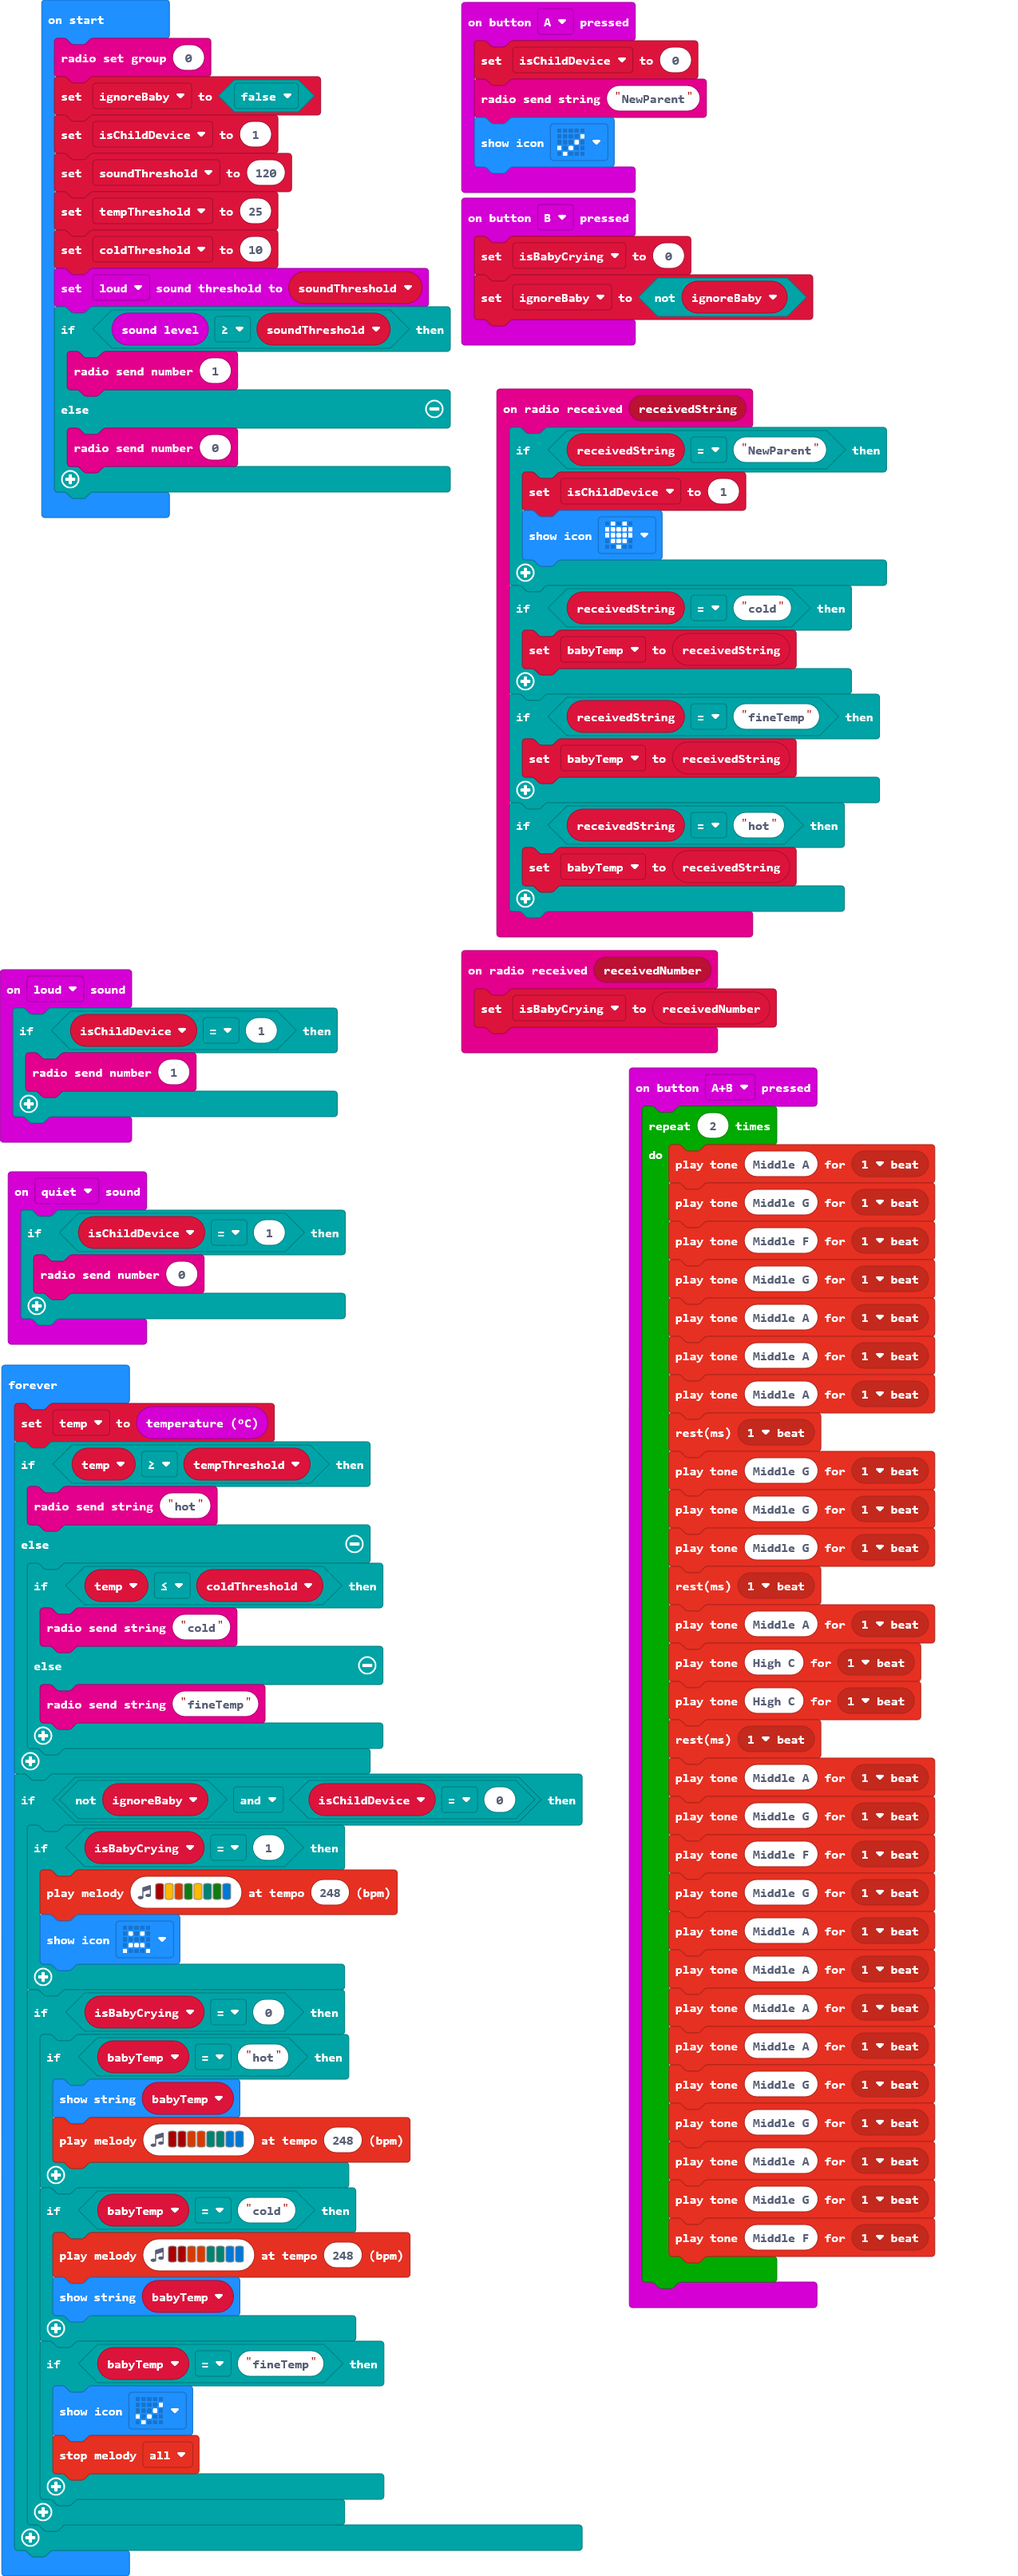
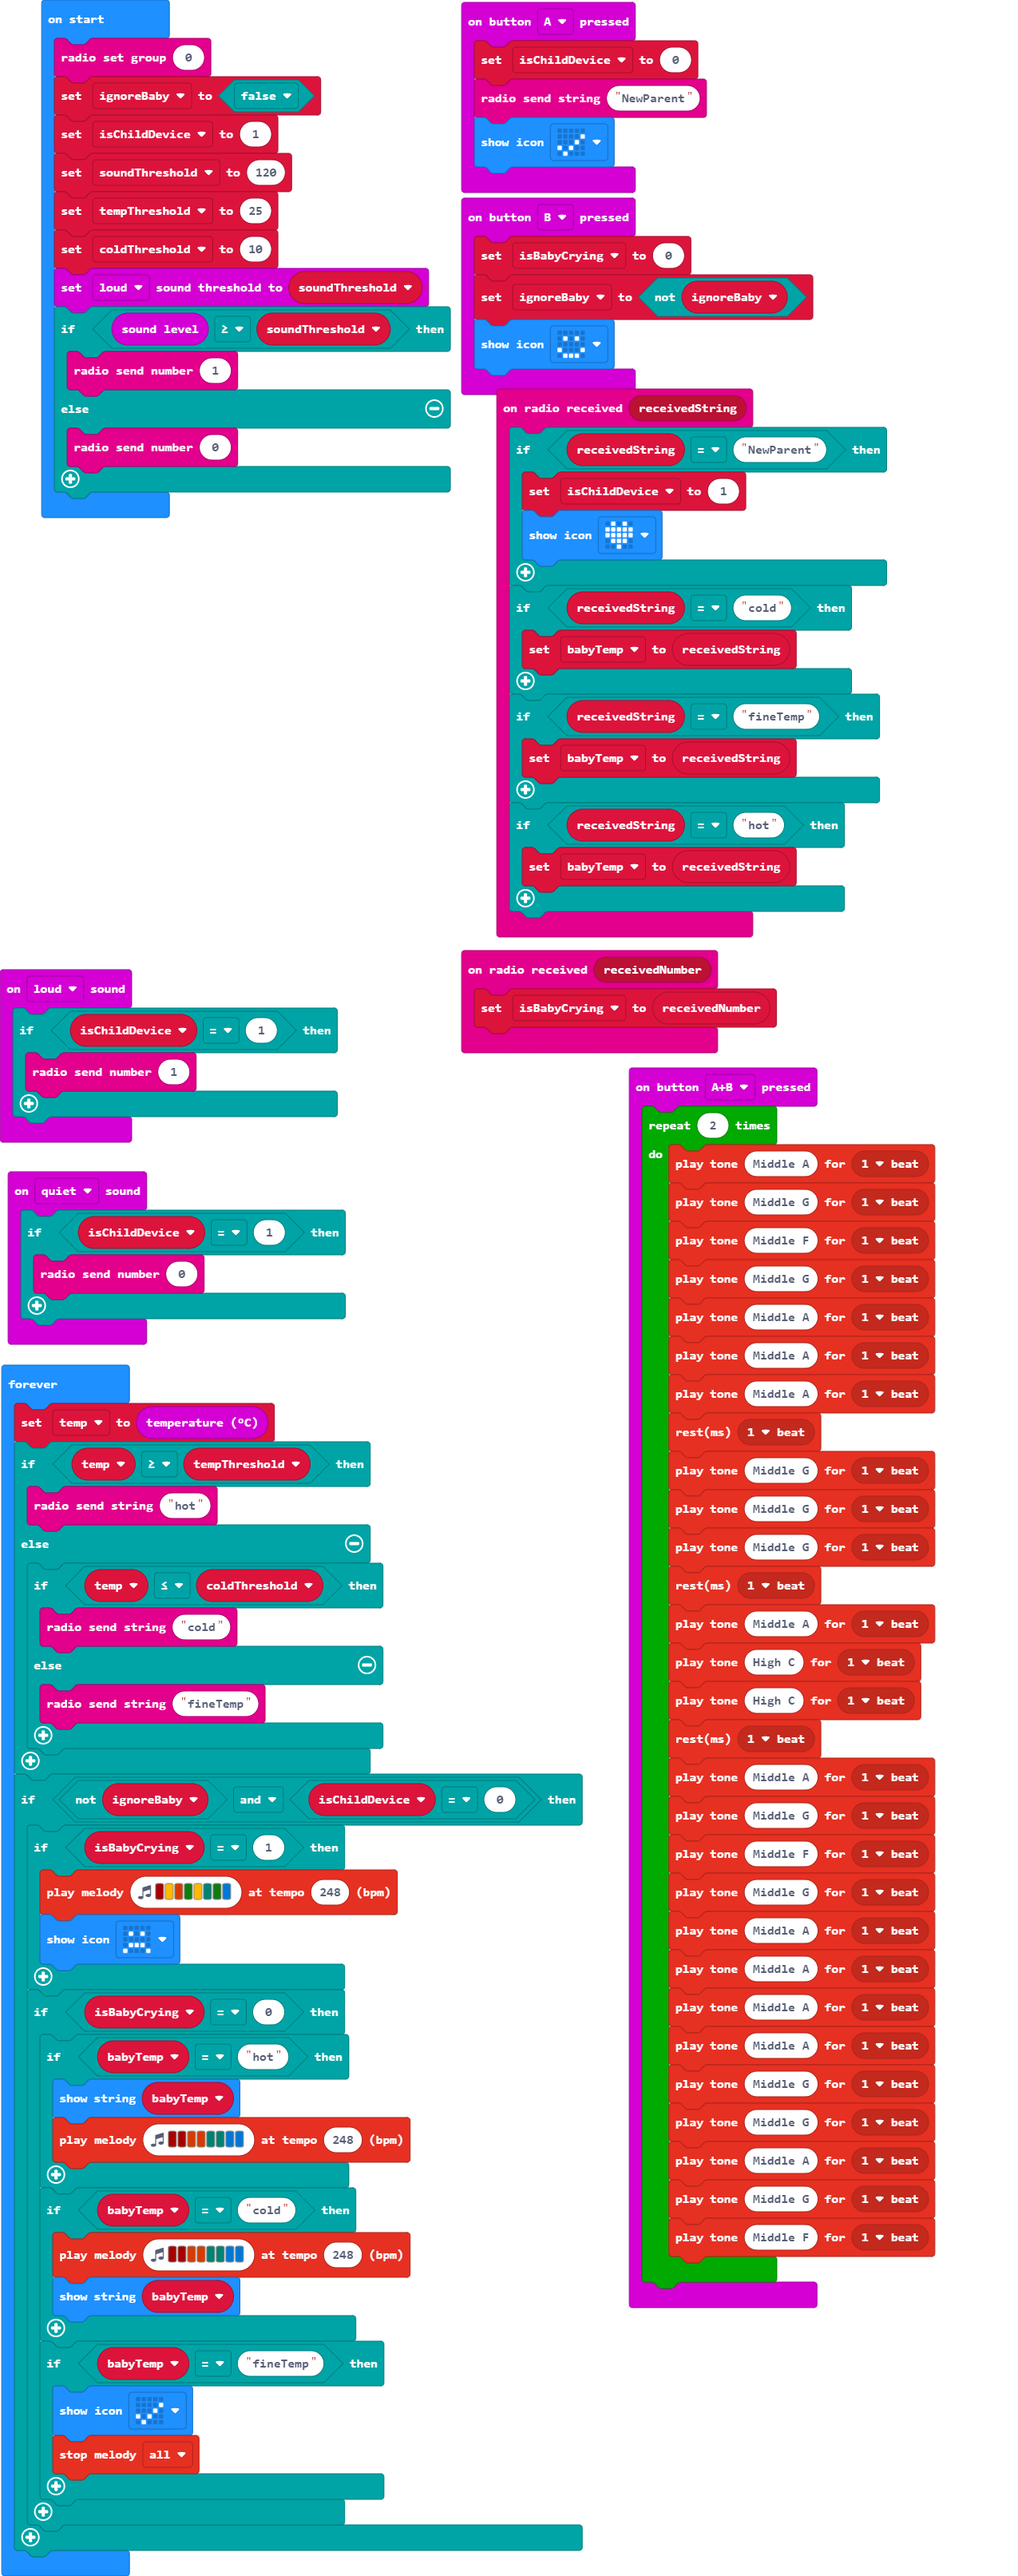
Button B stops all alerts

Changed region(s): [[0.4282, 0.093, 0.6424, 0.155], [0.1224, 0.7752, 0.1529, 0.8062], [0.0306, 0.9612, 0.0612, 0.9922]]

diff --git a/main.ts b/main.ts
@@ -67,6 +67,7 @@ radio.onReceivedString(function (receivedString) {
 input.onButtonPressed(Button.B, function () {
     isBabyCrying = 0
     ignoreBaby = !(ignoreBaby)
+    basic.showIcon(IconNames.Happy)
 })
 input.onSound(DetectedSound.Quiet, function () {
     if (isChildDevice == 1) {
